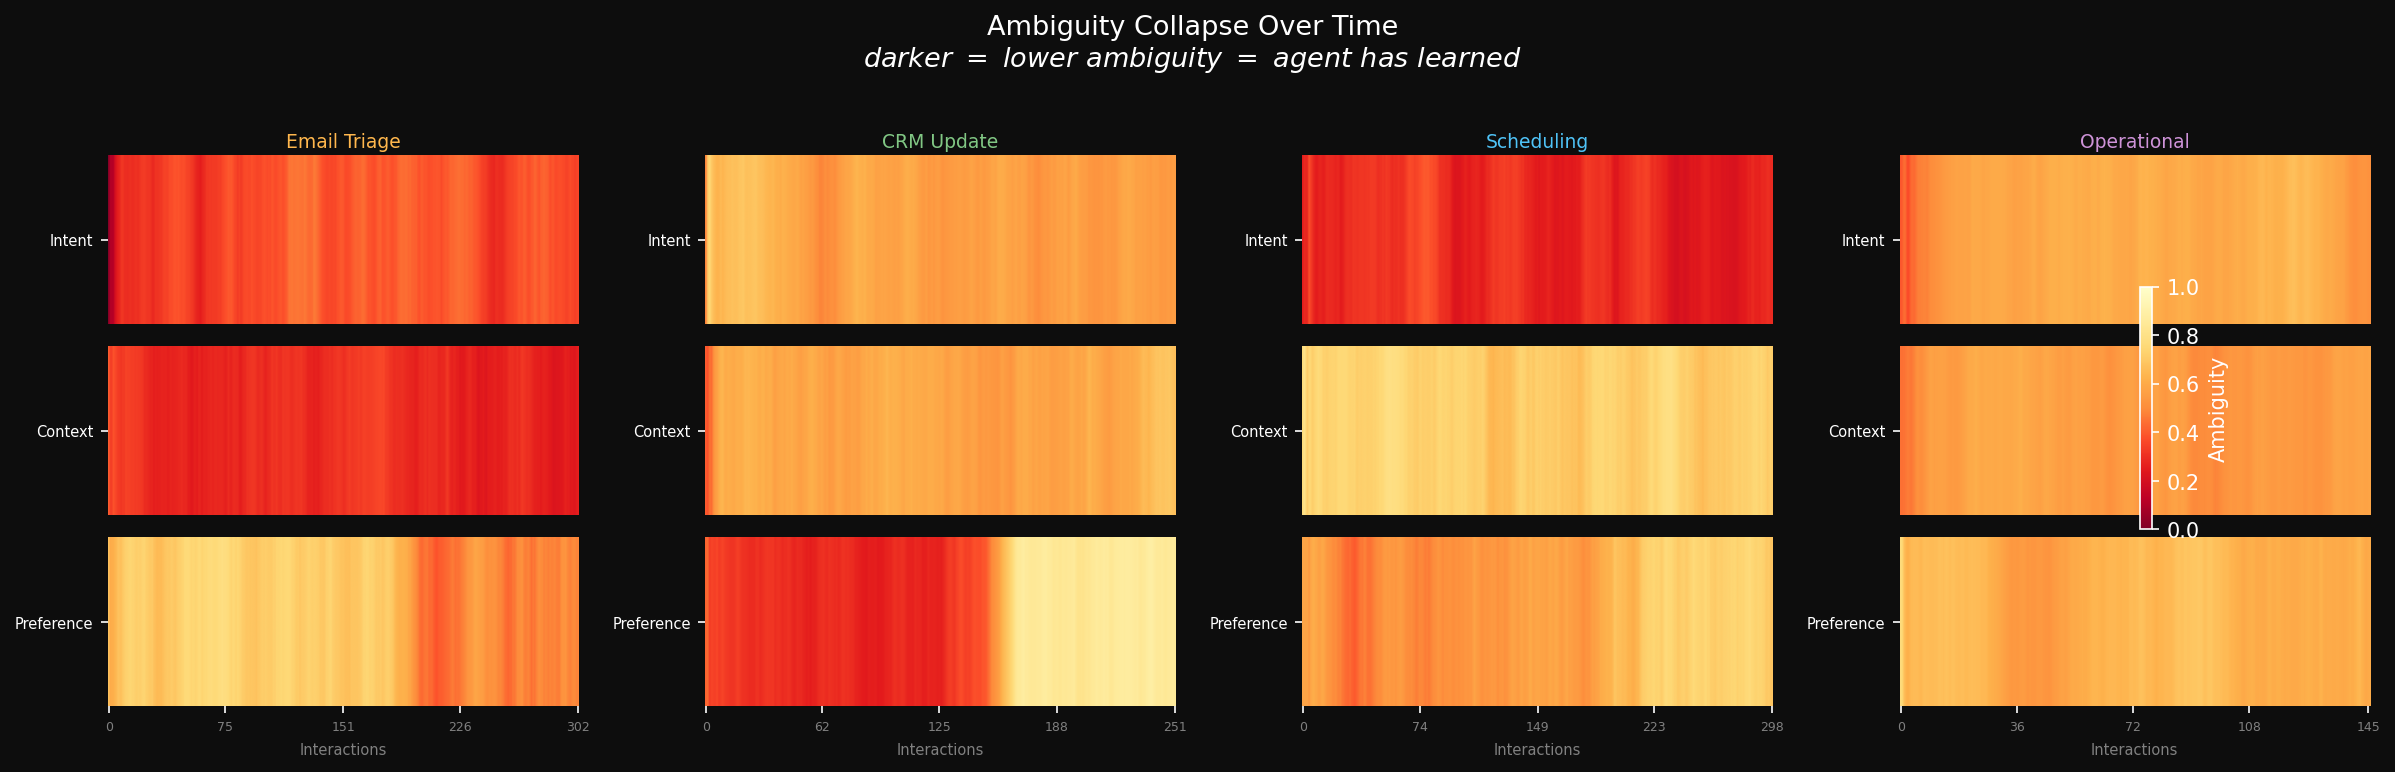
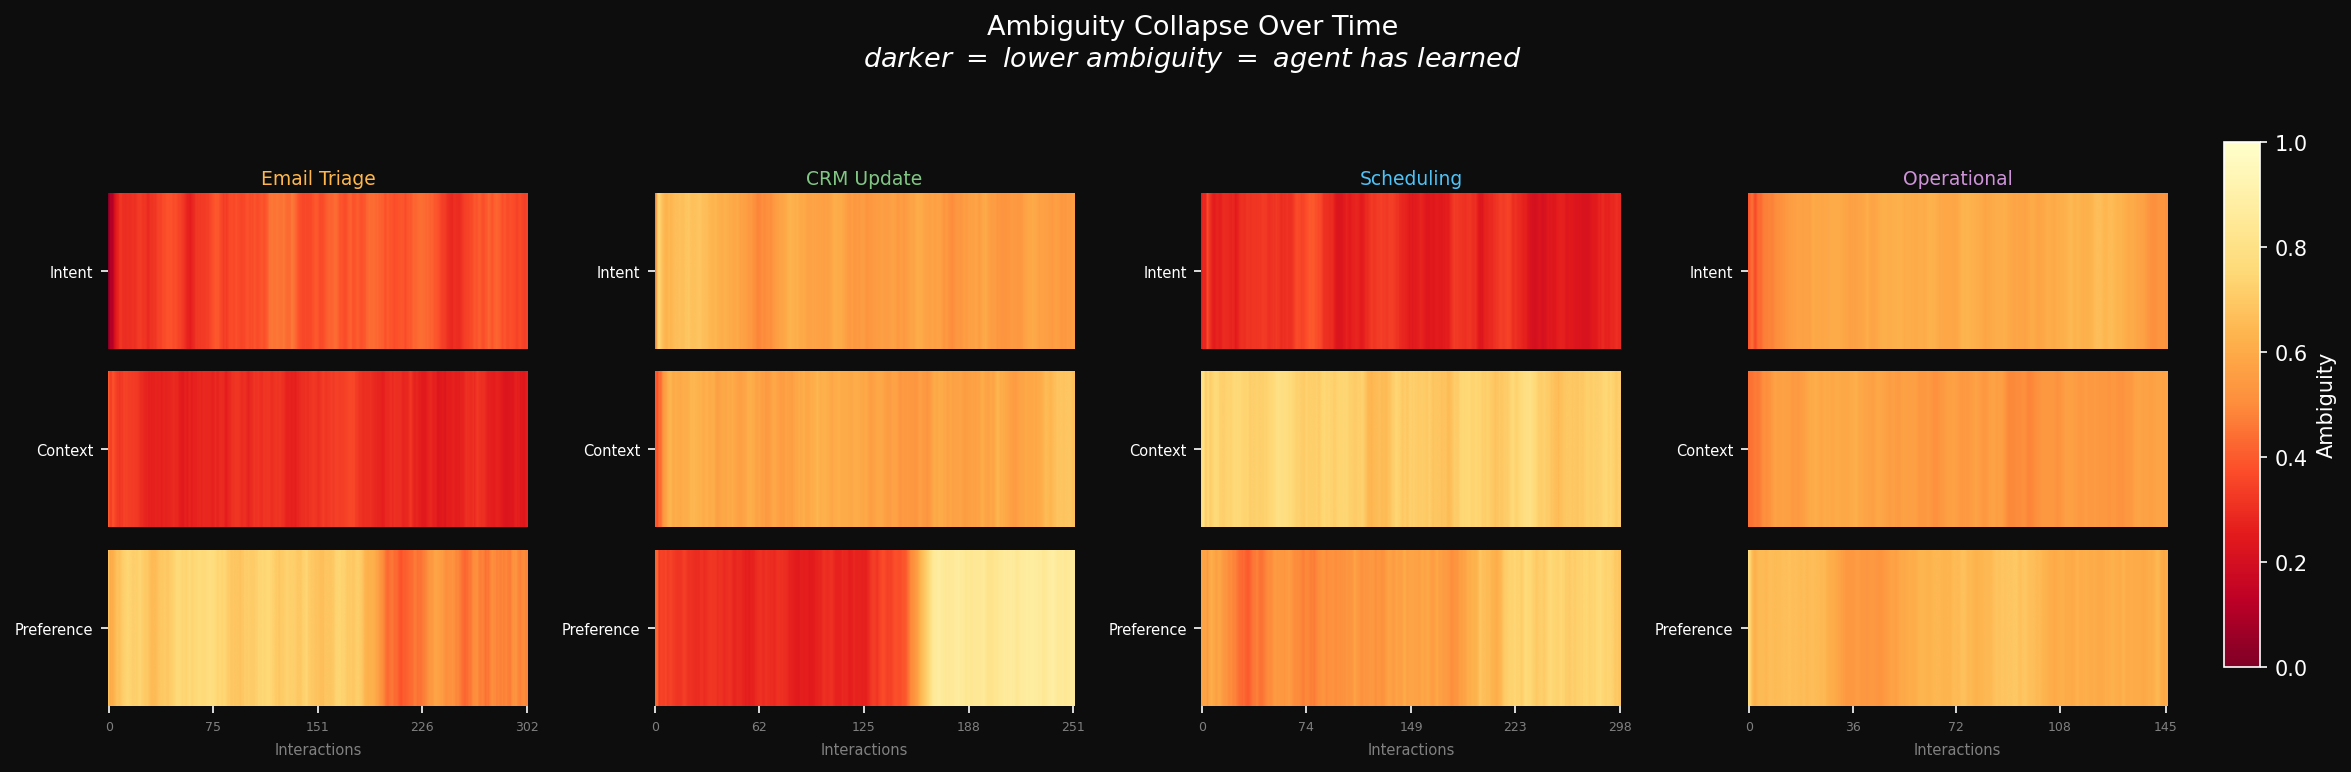
fix(viz): adjust colorbar placement to prevent overlap in ambiguity heatmap

diff --git a/src/visualizations.py b/src/visualizations.py
@@ -125,8 +125,9 @@ def plot_ambiguity_heatmap(
             for spine in ax.spines.values():
                 spine.set_visible(False)
 
-    plt.colorbar(im, ax=axes[:, -1], label="Ambiguity", fraction=0.03)
-    plt.tight_layout()
+    plt.tight_layout(rect=[0, 0, 0.92, 0.95])
+    cbar_ax = fig.add_axes([0.93, 0.15, 0.015, 0.7])
+    fig.colorbar(im, cax=cbar_ax, label="Ambiguity")
     _save(fig, "fig1_ambiguity_heatmap.png")
 
 